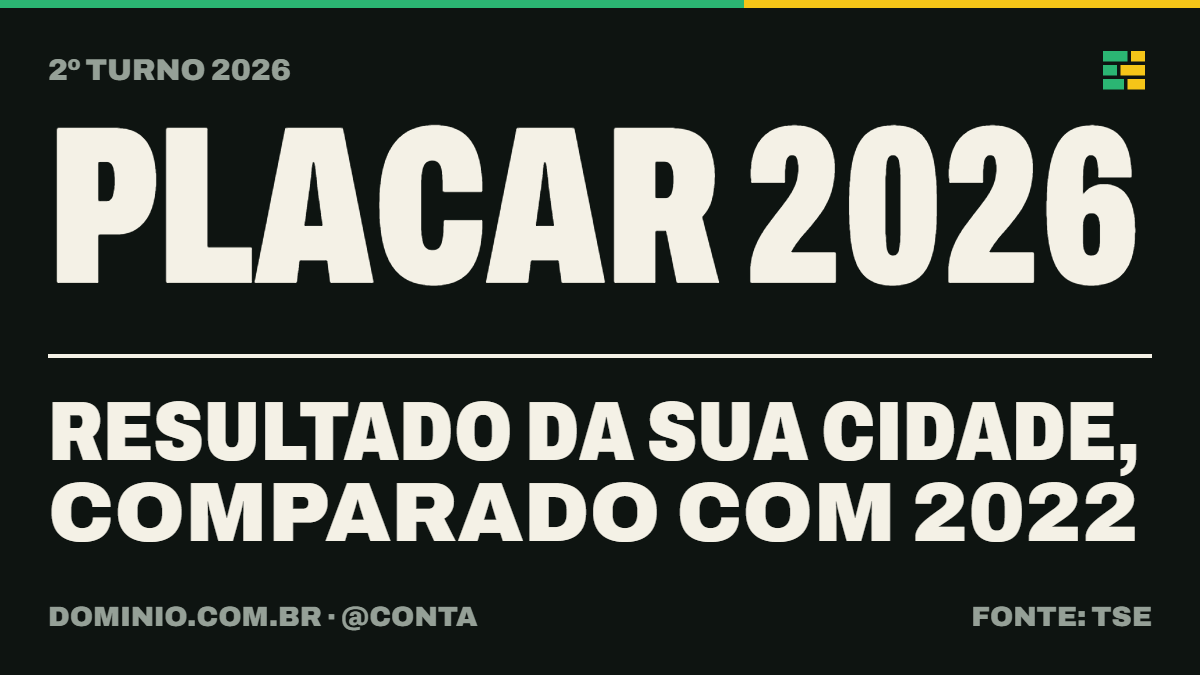
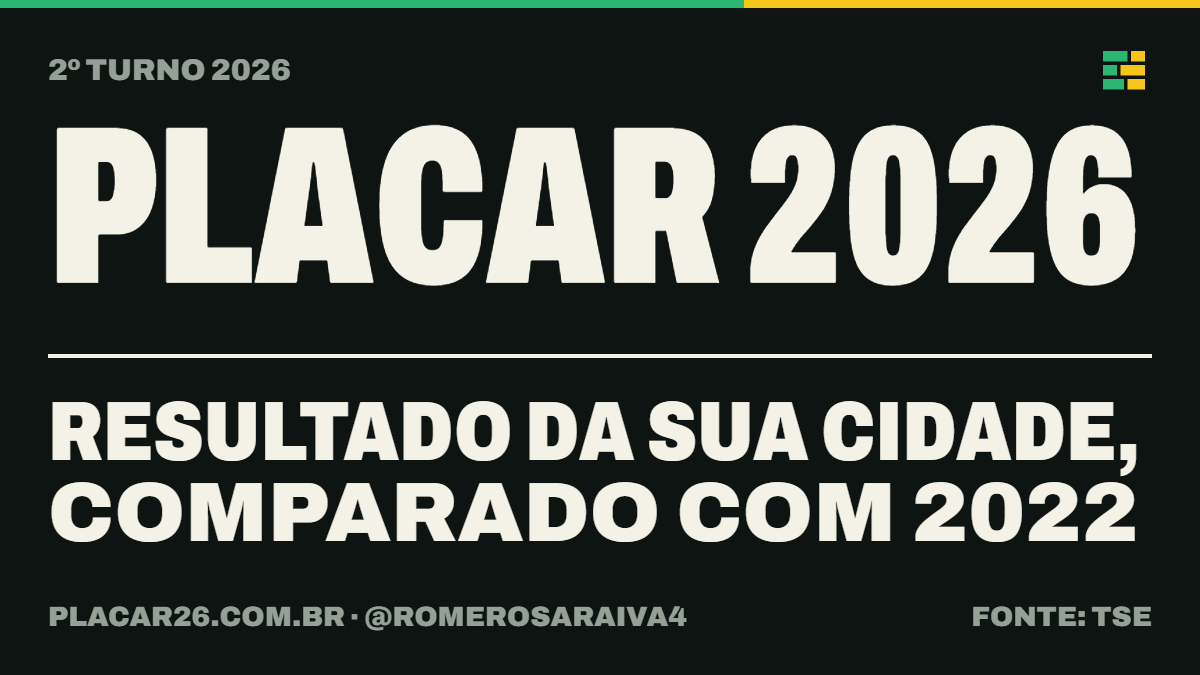
Reforça cabeçalhos e acessibilidade e usa a OG de fallback

Changed region(s): [[0.0308, 0.9022, 0.5858, 0.9333]]

diff --git a/site/src/lib/copy.ts b/site/src/lib/copy.ts
@@ -31,6 +31,14 @@ export function semConexao(atualizado: string | null | undefined): string {
   return `Sem conexão, mostrando a última atualização às ${hora(atualizado)}.`;
 }
 
+// Compartilhar o card (components/compartilhar-png.ts): o card da cidade, o do estado e o do palpite dizem as mesmas frases.
+export const CARD_GERANDO = 'Gerando o card…';
+export const CARD_PNG_BAIXADO_E_COPIADO = 'PNG baixado e texto copiado. É só postar.';
+export const cardPngBaixado = (texto: string): string => `PNG baixado. Copie o texto: ${texto}`;
+export const CARD_TOQUE_DE_NOVO = 'Card pronto. Toque de novo para compartilhar.';
+/** O detalhe técnico vai para o console; a tela só diz o que a pessoa pode fazer. */
+export const CARD_FALHOU = 'Não deu para gerar o card. Toque de novo para tentar outra vez.';
+
 // Home e placar (design/DIRECTION.md, Home). PENDENTE de aprovação do Romero.
 
 /**
@@ -170,7 +178,7 @@ export function esperaDoCard(horaInicio: string, dia: string, quem = 'a cidade')
   return `${AGUARDANDO_SECOES[0].toLocaleUpperCase('pt-BR')}${AGUARDANDO_SECOES.slice(1)}. A apuração do 2º turno começa às ${horaInicio} de ${dia} e este card passa a mostrar ${quem} ao vivo.`;
 }
 
-export interface DadosTexto {
+interface DadosTexto {
   local: string;
   /** Qualquer ordem: o texto sai sempre com o menor número de urna primeiro. */
   cand: ReadonlyArray<{ n: number; nome: string; pct: number }>;
@@ -253,9 +261,14 @@ export const rotuloAba = (id: string, aoVivo: boolean): string => (id === 'ao-vi
 /** Os dois modos de cor do mapa. */
 export const MODO_MAPA = { resultado: 'resultado', variacao: 'comparar' } as const;
 
-/** A mesma frase de variacao2022, para qualquer ano de referência ("... em relação a 2018"). */
-export function variacaoDesde(nome: string, pts: number, ano: string): string {
-  return `${pontos(pts)} para ${nome} em relação a ${ano}`;
+/**
+ * A mesma frase de variacao2022, para a camada de referência do mapa ("... em relação a 2018"). Contra o 2º turno só o ano
+ * entra (é a frase da cidade e do card); contra um 1º turno ele também entra ("... em relação ao 1º turno de 2022"), porque
+ * o painel da apuração compara 1º com 1º e a cidade compara com o 2º turno de 2022. PENDENTE de aprovação do Romero.
+ */
+export function variacaoDesdeCamada(nome: string, pts: number, idReferencia: string): string {
+  const ano = idReferencia.slice(0, 4);
+  return `${pontos(pts)} para ${nome} em relação ${idReferencia.endsWith('t1') ? `ao 1º turno de ${ano}` : `a ${ano}`}`;
 }
 
 /** Legenda do mapa: o que a cor diz em cada modo. "lidera" só durante a apuração. */
@@ -279,7 +292,7 @@ export const verCidade = (nome: string): string => `ver o card de ${nome}`;
 export const verEstado = (nome: string): string => `ver o card de ${nome}`;
 export const ERRO_CAMADA = 'Não deu para carregar este mapa.';
 export const TENTAR_DE_NOVO = 'tentar de novo';
-export const rotuloMapa = (turno: string): string => `Mapa por município, ${turno}. A mesma informação está na tabela abaixo do mapa.`;
+const rotuloMapa = (turno: string): string => `Mapa por município, ${turno}. A mesma informação está na tabela abaixo do mapa.`;
 
 /** /apuracao no modo pre: quando o mapa passa a ser ao vivo. Sem início conhecido, não inventa hora. PENDENTE de aprovação do Romero. */
 export function aoVivoAPartir(inicio: string | null | undefined): string {

diff --git a/site/src/lib/copy.test.ts b/site/src/lib/copy.test.ts
@@ -22,7 +22,7 @@ import {
   semVirada,
   tituloApuracao,
   turnoDaCamada,
-  variacaoDesde,
+  variacaoDesdeCamada,
   BRASIL,
   MAPA_TECLAS,
   rotuloMotor,
@@ -139,9 +139,14 @@ describe('copy da apuração', () => {
     expect(rotuloAba('2026-t1', true)).toBe('1º turno 2026');
   });
 
-  it('a variação contra 2022 é exatamente a frase de sempre; contra outro ano, só troca o ano', () => {
-    expect(variacaoDesde('Lula', 3.4, '2022')).toBe(variacao2022('Lula', 3.4));
-    expect(variacaoDesde('Lula', 1, '2018')).toBe('+1,0 ponto para Lula em relação a 2018');
+  it('a variação contra o 2º turno de 2022 é exatamente a frase de sempre; contra outro ano, só troca o ano', () => {
+    expect(variacaoDesdeCamada('Lula', 3.4, '2022-t2')).toBe(variacao2022('Lula', 3.4));
+    expect(variacaoDesdeCamada('Lula', 1, '2018-t2')).toBe('+1,0 ponto para Lula em relação a 2018');
+  });
+
+  it('contra um 1º turno, a frase diz o turno (a cidade e o card comparam com o 2º turno de 2022)', () => {
+    expect(variacaoDesdeCamada('Flávio Bolsonaro', 5.1, '2022-t1')).toBe('+5,1 pontos para Flávio Bolsonaro em relação ao 1º turno de 2022');
+    expect(variacaoDesdeCamada('Lula', 1, '2018-t1')).toBe('+1,0 ponto para Lula em relação ao 1º turno de 2018');
   });
 
   it('"lidera" na legenda só durante a apuração', () => {

diff --git a/site/src/styles/fonts.css b/site/src/styles/fonts.css
@@ -4,7 +4,8 @@
  *   500 = texto, largura normal.
  * O 900 vem em duas partes, e o navegador só baixa a parte cujo unicode-range aparece na página:
  *   caps = o que a interface escreve em 900 (tudo em caixa-alta por CSS), 15 KB, sempre usada;
- *   completo = o Latin-1 inteiro (29 KB), rede de segurança para minúscula ou símbolo raro em 900; hoje nunca é baixado.
+ *   completo = o Latin-1 inteiro (29 KB), rede de segurança para minúscula ou símbolo raro em 900; só baixa
+ *     se algum texto em 900 usar glifo fora de caps (hoje, em /apuracao, o separador "›" da trilha ao abrir um estado).
  * Os dois ranges são complementares e o de caps é IGUAL a `caixaAlta` de scripts/build-fonts.ts.
  */
 @font-face {

diff --git a/site/src/lib/flags.ts b/site/src/lib/flags.ts
@@ -11,3 +11,9 @@ export interface FlagMeAvisa {
  * Antes de ligar: endpoint real, política de privacidade publicada e os textos de consentimento aprovados pelo Romero.
  */
 export const ME_AVISA: FlagMeAvisa = { ativo: false, endpoint: '' };
+
+/**
+ * og:image própria de cada cidade (/og/{slug}.png). Desligado, as cidades usam /og/fallback.png: os PNGs por cidade só existem
+ * com o renderizador (Fase 4, SVG -> PNG), e apontar para um arquivo que não existe deixa o preview do link no X sem imagem (404).
+ */
+export const OG_POR_CIDADE = false;

diff --git a/site/src/components/busca.ts b/site/src/components/busca.ts
@@ -44,7 +44,6 @@ function opcao(r: ResultadoBusca, id: string): HTMLLIElement {
   li.id = id;
   li.setAttribute('role', 'option');
   li.setAttribute('aria-selected', 'false');
-  li.setAttribute('aria-label', `${r.nome} (${r.uf})`);
   li.dataset.slug = r.slug;
   const nome = document.createElement('span');
   nome.className = 'nome';

diff --git a/site/src/data/README.md b/site/src/data/README.md
@@ -9,7 +9,7 @@ Tudo aqui, e em `public/mapa/`, é **REAL**: vem do TSE e do IBGE por scripts de
 | `hist-uf/{uf}.json` (27), `hist-br.json` | o mesmo, por UF e para o Brasil | TSE |
 | `../../public/mapa/{2018-t1,2018-t2,2022-t1,2022-t2,2026-t1}.json` | camadas do mapa e do gráfico histórico, uma por eleição e turno | TSE |
 | `fontes.json` | procedência: URL, tamanho, SHA-256, ETag e Last-Modified de cada arquivo lido | gerado por `baixar` |
-| `pesquisas.json` | pesquisas registradas no TSE (hoje `[]`) | manual, ver o fim deste arquivo |
+| `pesquisas.json` | pesquisas registradas no TSE (hoje 3: Gerp, Quaest e PoderData) | manual, ver o fim deste arquivo |
 
 ## Como regenerar
 
@@ -106,7 +106,7 @@ Os testes (`tests/etl-dados.test.ts`) guardam os itens 1 a 3; os itens 4 e 5 for
 
 ## pesquisas.json (pesquisas reais, registradas no TSE)
 
-Alimenta o bloco "Pesquisas registradas no TSE" da home (só no modo `pre`). Hoje é `[]`: sem pesquisa real, o bloco não aparece. Contrato em `contracts/schemas/pesquisas.schema.json`; `npm test` valida o arquivo (schema, ids e registros únicos, fim da coleta depois do início, sem `ficticio`).
+Alimenta o bloco "Pesquisas registradas no TSE" da home (só no modo `pre`). Hoje tem 3 pesquisas reais, a mais recente de cada instituto do critério aprovado em 06/10 (Gerp, Quaest e PoderData, os que mais se aproximaram do 1º turno de 2026), cada uma com a `fonte_url` da reportagem que traz os números; sem nenhuma pesquisa real, o bloco não aparece. Antes do lançamento, reconfira no PesqEle se saiu pesquisa mais recente desses institutos e se o `contratante` de cada uma é o texto do registro. Contrato em `contracts/schemas/pesquisas.schema.json`; `npm test` valida o arquivo (schema, ids e registros únicos, fim da coleta depois do início, sem `ficticio`).
 
 **Só entra pesquisa REAL, com registro no PesqEle.** Pesquisa fictícia nunca entra neste arquivo: divulgar pesquisa falsa é crime. Os exemplos fictícios ficam em `contracts/fixtures/pesquisas.exemplo.json` (todos com `"ficticio": true`) e só aparecem em `/design/pesquisas`, que o build remove do deploy. O teste falha se algum item daqui tiver `ficticio: true`, e o componente descarta qualquer um que tenha.
 
